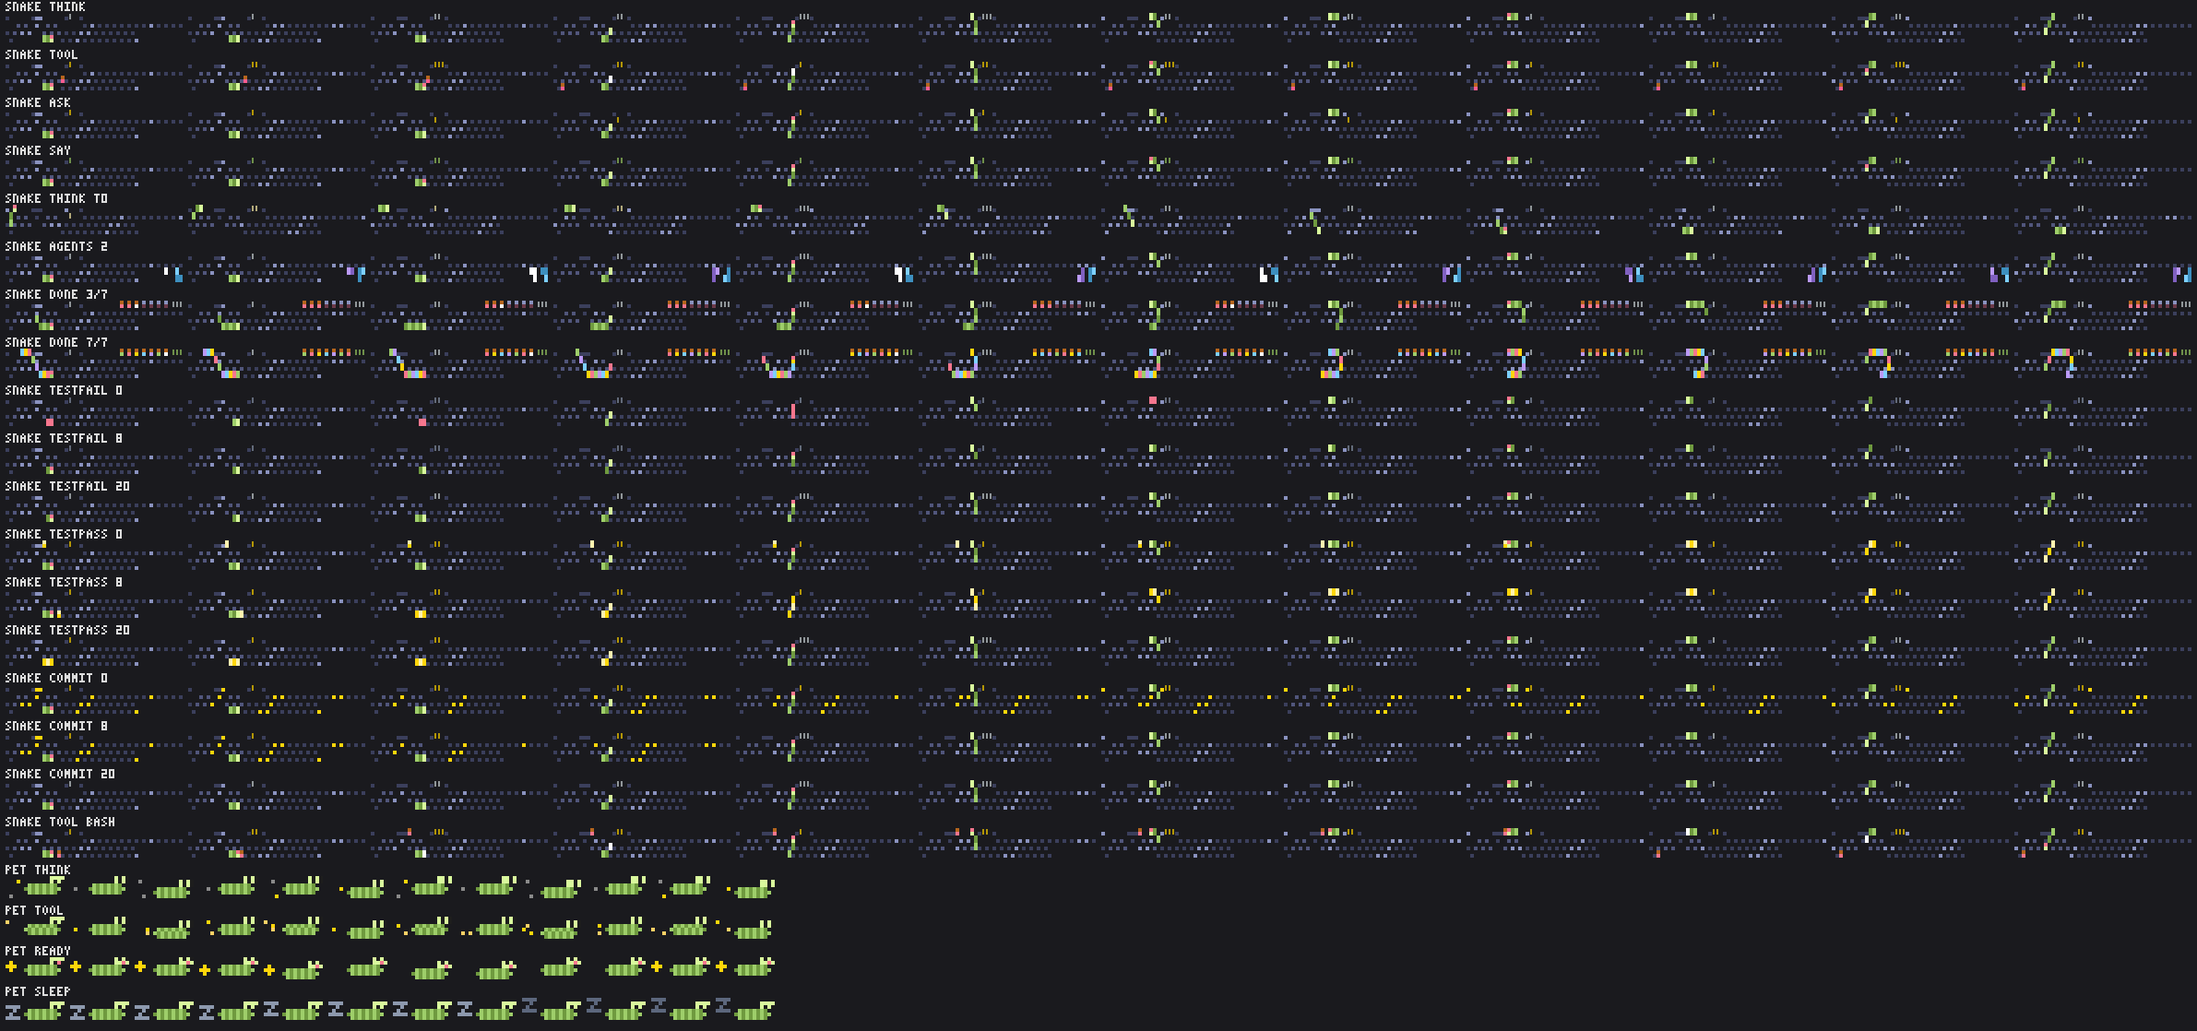
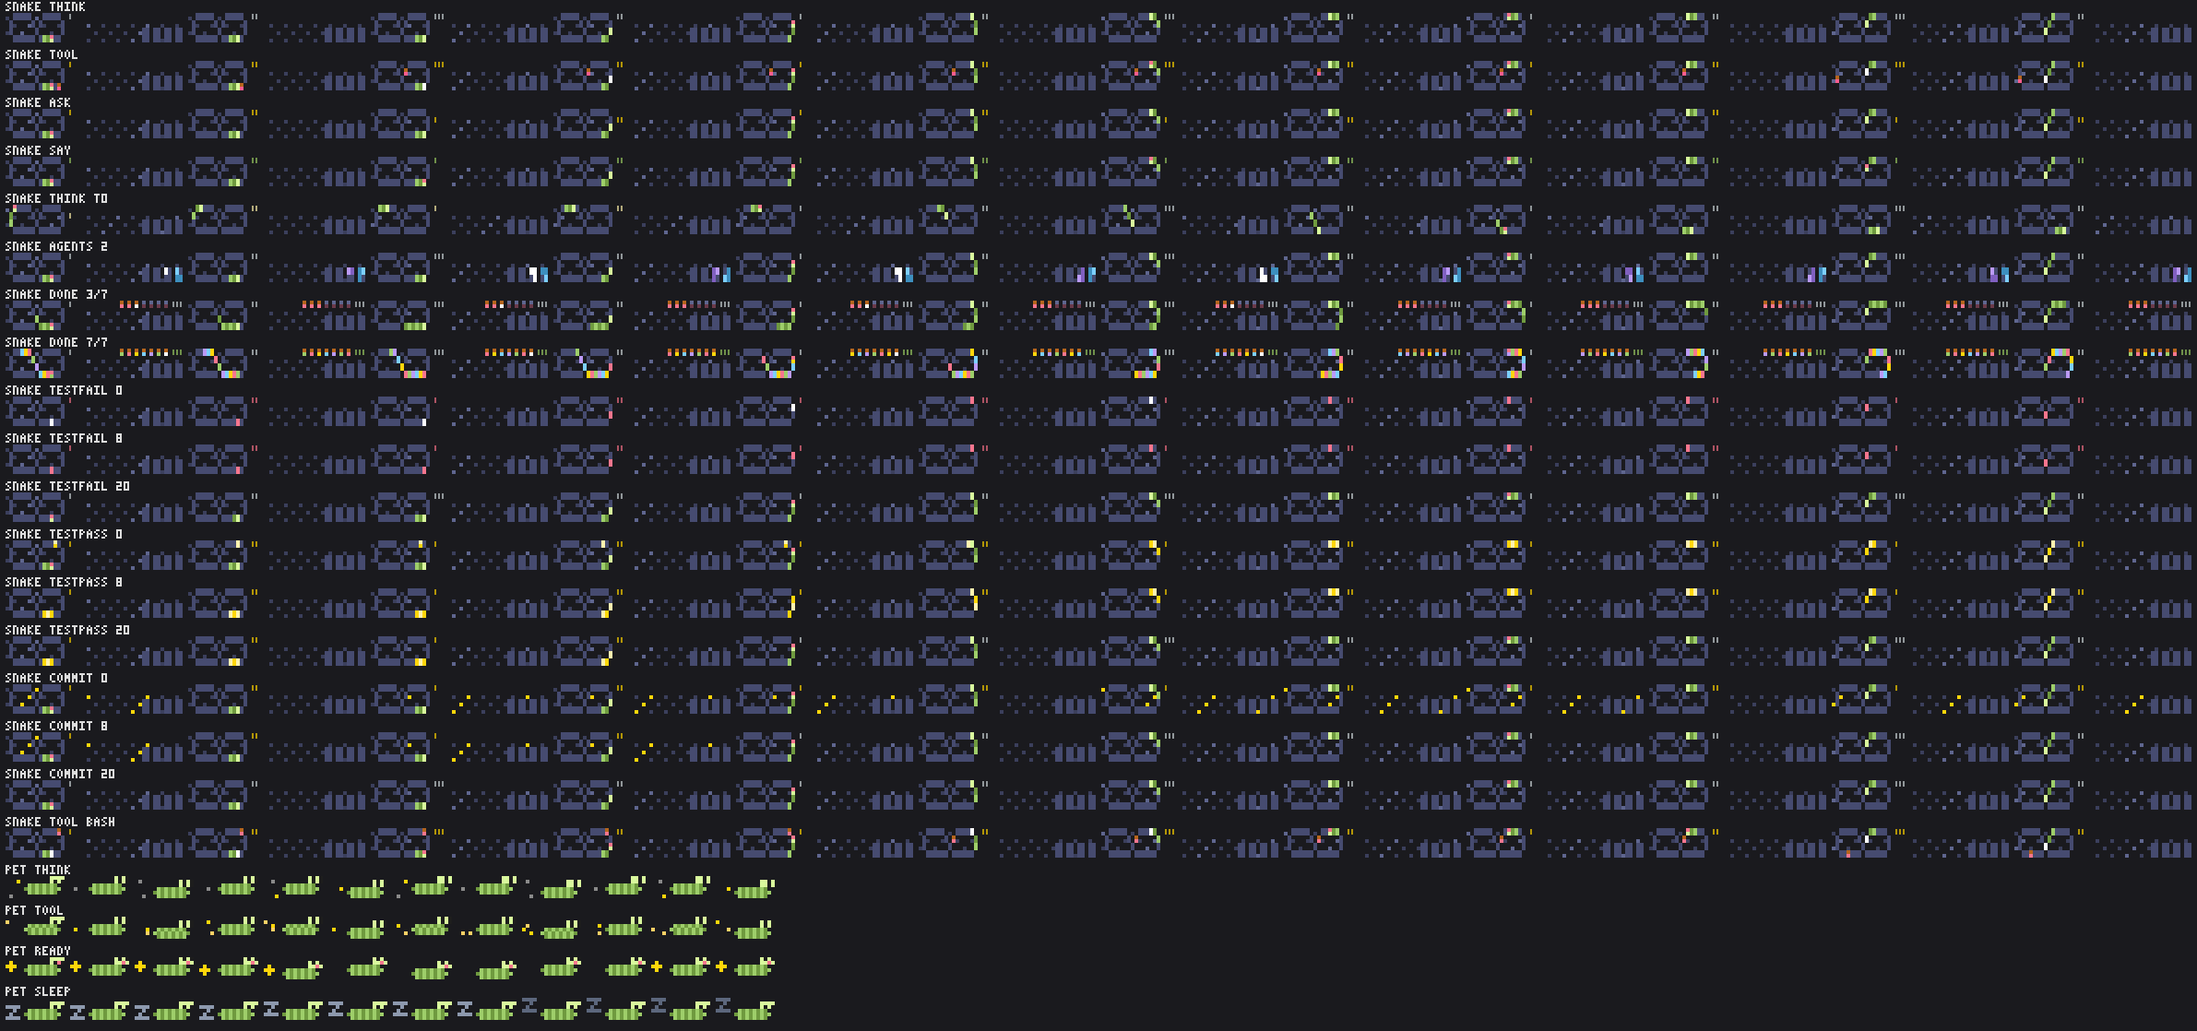
showtime: snake — the loop drawn as a dim track and a red fail (review fixes); the figure-eight is a continuous static track under the snake, so the subject reads at any length, the field thinned to every fourth cell and dimmed with its wave crest under the body's dark green, the agents' rings four 

Changed region(s): [[0.0, 0.0, 1.0, 0.8515]]

diff --git a/showtime/hooks/themes/snake.ts b/showtime/hooks/themes/snake.ts
@@ -1,30 +1,25 @@
 // Theme: snake. Its scene, its words and its pet.
 //
-// The scene: a grid snake (#9ece6a) winding a figure-eight in the left third of the band, a cell a
-// frame in every act, its body banded in two greens so the bands crawl, a pale head with a flick of red
-// across it for a tongue (every fourth frame idle, every other saying or hunting, every frame on bash).
-// The field is dim dots on a checkerboard, the two lobes it rounds a shade lighter, three dots over the
-// crossing, and a brighter wave rolling across it all. Its length is 3 + `done`, growing a cell as a
-// task lands, and `total` apples sit dim along the top right beside a `done/total` readout, `done` of
-// them red, the newest flashing white, all rolling colours at 100%. In a tool an apple in the tool's
-// colour appears ahead on the loop (eight cells or more; five on bash) and the snake runs it down, a
-// white bite as it reaches it, the next appearing further along. A sign right of the loop reads the
-// act (dots, a bobbing `?`, notes, the tool's mark). Each subagent (four at most) is a small snake of
-// its own hue circling a two-by-two ring at the bottom right, growing in and flashing white as it
-// joins. A failed test: the snake bites its tail, flashing red for eight frames and two cells shorter
-// for twenty, a `×`; a passed test: a golden apple ahead of it, the snake gold once it is eaten, a `★`,
-// twenty-four frames; a commit: the apples and the field's wave gold under a `✓`.
+// The scene: a grid snake (#9ece6a) running a figure-eight drawn as a dim track in the left third of
+// the band, a cell a frame in every act, its body banded in two greens so the bands crawl, a pale head
+// with a flick of red across it for a tongue (every fourth frame idle, every other saying or hunting,
+// every frame on bash). Around the track a sparse field of dim dots with a faint wave rolling across
+// it. Its length is 3 + `done`, growing a cell as a task lands; `total` apples sit dim along the top
+// right beside a `done/total` readout, `done` of them red, the newest flashing white, all rolling
+// colours at 100%. In a tool an apple in the tool's colour appears eight cells ahead on the track
+// (five on bash) and the snake runs it down, a white bite as it reaches it, the next appearing further
+// along. A sign right of the track reads the act (dots, a bobbing `?`, notes, the tool's mark). Four
+// dim ring slots at the bottom right: each subagent (four at most) is a small snake of its own hue
+// circling one, growing in and flashing white as it joins. A failed test: the snake bites its tail,
+// red for twenty frames (flashing white the first eight) and two cells shorter, under a red `×`; a
+// passed test: a golden apple ahead, the snake gold once it is eaten, a `★`, twenty-four frames; a
+// commit: the apples and the field's wave gold under a `✓`.
 //
-// Motion rules (tests/scenes.test.ts): the loop's cells carry no dots, so the head always enters an
-// empty cell and the tail always leaves one, and no frame can hold; the sign changes its ink every
-// other frame besides. New ink away from the body must start within a column of a run already there,
-// so the checkerboard is phased to the loop (the lobe length odd): no dot sits beside a straight in
-// its own row, where the tail leaving would expose it two columns from the body's end, and a dot sits
-// beside each corner the head turns into out of a rightward run (the lattice at the right side, the
-// three anchors at the crossing). Apples appear only at loop cells with a dot beside them in their own
-// row, or at the band's left edge, so their ink joins a run; the tongue stays on the head's cell. A
-// ring grows in from its top left (a dot in the row above anchors it), its margins kept clear, and
-// its zone is reserved only where a ring fits, so the right side's anchors survive a narrow band.
+// Motion rules (tests/scenes.test.ts): the track, the dots and the ring slots are constant ink, so the
+// snake, the apples, the agents and every reaction change colour only and no run start ever moves.
+// What keeps a frame from holding is the sign: it changes its ink every frame in every act and under
+// every news (a tail of dots that grows and shrinks beside a mark that stays), and it never hides,
+// moving down to the bottom rows where a narrow band puts the readout in its place.
 import { canvas, cells, frame, mod, plot, put } from '../cells'
 import type { Canvas, Grid } from '../cells'
 import { SCENE_ROWS } from '../draw'
@@ -33,14 +28,15 @@ import type { Signals, Theme, ToolKind } from '../themes'
 
 type Cell = readonly [x: number, y: number]
 
-/** The loop's left column, and the straight cells along a lobe's top by the band's width. */
+/** The track's left column; the straight cells along a lobe's top, by the band's width. */
 const LOOP_X = 1
 const MIN_LOBE = 3
-const MAX_LOBE = 7
+const MAX_LOBE = 8
 const BASE_LEN = 3
-const MIN_LEN = 2
+const MIN_LEN = 1
+const DOT_PITCH = 4
 const WAVE = 16
-/** The sign's column from the loop's right side. */
+/** The sign's column from the track's right side. */
 const SIGN_GAP = 2
 const SIGN_W = 3
 const APPLE_PITCH = 2
@@ -50,11 +46,9 @@ const GOLD_EVERY = 6
 const BITE_FRAMES = 2
 const RING_PITCH = 3
 const MAX_AGENTS = 4
-/** The ring's cells in order: a two-by-two square, clockwise from its top left. */
+/** A ring's cells in order: a two-by-two square, clockwise from its top left. */
 const RING: Cell[] = [[0, 2], [1, 2], [1, 3], [0, 3]]
 const RING_LEN = 3
-/** Columns a ring and its margins take, from its left cell. */
-const RING_ZONE = [-1, 0, 1, 2]
 const GREET_FRAMES = 8
 const FAIL_FLASH_FRAMES = 8
 const FAIL_FRAMES = 20
@@ -73,11 +67,10 @@ const WHITE = '#ffffff'
 const GOLD = '#ffd60a'
 const PALE = '#fff3b0'
 const STEM = '#b5651d'
+const TRACK = '#464b70'
 const DOT = '#3b3f5c'
-const DOT_IN = '#51567c'
-const DOT_LIT = '#8a92bf'
+const DOT_LIT = '#5f668f'
 const DIM_APPLE = '#6b3a4a'
-const GREY = '#8d99ae'
 const SIGN = '#cfd8dc'
 const PALETTE = [GREEN, RED, GOLD, '#7dcfff', '#bb9af7']
 const APPLE: Record<ToolKind, string> = {
@@ -91,21 +84,15 @@ const HUES: readonly (readonly [string, string])[] = [
   ['#7dcfff', '#3d8fbf'], ['#bb9af7', '#8060c0'], ['#ff9e64', '#c06a30'], ['#f7768e', '#b04060'],
 ]
 
-/** Straight cells along a lobe's top: the loop is 2n + 5 wide, 4n + 10 long, in the left third. Odd, so
- * the lattice falls beside the loop's corners and never beside its straights. */
-function lobeOf(w: number): number {
-  const n = Math.max(MIN_LOBE, Math.min(MAX_LOBE, Math.floor((Math.floor(w / 3) - 5) / 2)))
-  return n % 2 === 0 ? n - 1 : n
-}
-/** The crossing's column, and the right side's. */
-const crossOf = (n: number) => LOOP_X + n + 2
+/** Straight cells along a lobe's top: the track is 2n + 5 wide and 4n + 10 long, in the left third. */
+const lobeOf = (w: number) => Math.max(MIN_LOBE, Math.min(MAX_LOBE, Math.floor((Math.floor(w / 3) - 5) / 2)))
 const rightOf = (n: number) => LOOP_X + 2 * n + 4
 
 /** The figure-eight, from the top left lobe's first cell: along the top, down through the crossing to
  * the right lobe's bottom, up its side, back along its top, down through the crossing again to the
  * left lobe's bottom, and up its side. The two lobes meet only at the crossing. */
 function loopOf(n: number): Cell[] {
-  const c = crossOf(n)
+  const c = LOOP_X + n + 2
   const r = rightOf(n)
   const out: Cell[] = []
   for (let i = 1; i <= n; i++) out.push([LOOP_X + i, 0])
@@ -131,65 +118,33 @@ function apple(cv: Canvas, [x, y]: Cell, color: string, stem = STEM): void {
   plot(cv, x, 2 * y + 1, color)
 }
 
-/** Loop indices where an apple may appear: cells with a dot beside them in their own row (the lobes'
- * far ends, the cells by the crossing's anchors) or at the band's left edge, so its ink joins a run. */
-function spotsOf(n: number): number[] {
-  return [n - 1, n, 2 * n + 2, 2 * n + 3, 3 * n + 4, 3 * n + 5, 4 * n + 7, 4 * n + 8, 4 * n + 9]
+/** The apple ahead: `every` cells past where the head was when the hunt began and past each apple
+ * eaten, with the frames since the last bite. */
+function appleAhead(since: number, every: number): { ahead: number; bitten: number } {
+  const phase = mod(since, every)
+  return { ahead: every - phase, bitten: since >= every ? phase : BITE_FRAMES }
 }
 
-/** The first spot at index `i` or after. */
-function nextSpot(i: number, spots: number[], L: number): number {
-  const m = mod(i, L)
-  for (const sp of spots) if (sp >= m) return i - m + sp
-  return i - m + L + spots[0]!
-}
-
-/** The apple ahead: the first spot `every` or more past where the head was when the hunt began (and
- * past each apple eaten), with the frames since the last bite. */
-function appleAhead(
-  t: number, t0: number, every: number, spots: number[], L: number,
-): { ahead: number; bitten: number } {
-  let a = nextSpot(t0 + every, spots, L)
-  let prev = -BITE_FRAMES
-  while (a <= t) { prev = a; a = nextSpot(a + every, spots, L) }
-  return { ahead: a - t, bitten: t - prev }
-}
-
-/** The field: a dot in the lower pixel of every other cell, a checkerboard, three more over the crossing
- * (beside the loop's corners, the anchors), the lobes' insides a shade lighter so the track shows, a
- * brighter wave rolling right (gold on a commit); none on the loop, beside the rings, under the sign
- * or along the apple row. */
-function field(cv: Canvas, t: number, n: number, reserved: Set<number>, isCommit: boolean): void {
-  const c = crossOf(n)
-  const r = rightOf(n)
+/** The field: a dot in the lower pixel of every fourth cell, each row offset two from the last, a
+ * faint wave rolling right (gold on a commit); none from the track's side through a column past the
+ * sign (a dot fused to the sign's tail would be exposed as it shrinks), none along the apple row. */
+function field(cv: Canvas, t: number, trackR: number, signX: number, hudL: number, isCommit: boolean): void {
   for (let y = 0; y < SCENE_ROWS; y++) {
     for (let x = 0; x < cv.w; x++) {
-      const anchor = (y === 0 && Math.abs(x - c) === 1) || (y === 1 && x === c)
-      if ((mod(x + y, 2) !== 0 && !anchor) || reserved.has(y * cv.w + x)) continue
-      const inside = y >= 1 && y <= 2 && ((x > LOOP_X && x <= LOOP_X + n) || (x >= c + 2 && x < r))
+      if (mod(x - 2 * y, DOT_PITCH) !== 0) continue
+      if (x > trackR && x <= signX + SIGN_W) continue
+      if (y === 0 && x >= hudL) continue
       const crest = mod(x + 2 * y - t, WAVE) < 3
-      plot(cv, x, 2 * y + 1, crest ? (isCommit ? GOLD : DOT_LIT) : inside ? DOT_IN : DOT)
+      plot(cv, x, 2 * y + 1, crest ? (isCommit ? GOLD : DOT_LIT) : DOT)
     }
   }
 }
 
-/** The cells the field leaves clear: the loop, the sign's box, the apple row and the zones of the rings
- * that fit (whether an agent stands there or not). */
-function reservedOf(w: number, loop: Cell[], signX: number, hudL: number): Set<number> {
-  const out = new Set(loop.map(([x, y]) => y * w + x))
-  for (let y = 0; y < 2; y++) for (let x = signX; x < signX + SIGN_W; x++) out.add(y * w + x)
-  for (let x = Math.max(0, hudL); x < w; x++) out.add(x)
-  for (let i = 0; i < MAX_AGENTS && w - 2 - RING_PITCH * i >= hudL; i++) {
-    for (const dx of RING_ZONE) for (const y of [2, 3]) out.add(y * w + w - 2 - RING_PITCH * i + dx)
-  }
-  return out
-}
-
 /** The snake's length now: three and a task, two shorter while a failed test smarts, regrowing a cell a
- * frame after, growing a cell a frame as a task lands; never longer than the loop less four. */
+ * frame after, growing a cell a frame as a task lands; never longer than the track less four. */
 function lengthOf(s: Signals, loopLen: number): number {
   let len = BASE_LEN + Math.min(s.done, Math.max(0, loopLen - 4 - BASE_LEN))
-  if (s.doneAge < 1) len -= 1
+  if (s.done > 0 && s.doneAge < 1) len -= 1
   if (s.news === 'testFail') {
     if (s.newsAge < FAIL_FRAMES) len -= FAIL_SHORT
     else if (s.newsAge < FAIL_FRAMES + FAIL_SHORT) len -= FAIL_FRAMES + FAIL_SHORT - s.newsAge
@@ -199,7 +154,9 @@ function lengthOf(s: Signals, loopLen: number): number {
 
 /** Segment `k` of the snake (0 the head) at `t`: its colour by the news, the bite and its band. */
 function segmentColor(k: number, t: number, s: Signals, bite: boolean, golden: boolean, allDone: boolean): string {
-  if (s.news === 'testFail' && s.newsAge < FAIL_FLASH_FRAMES) return mod(t, 2) === 0 ? RED : k === 0 ? HEAD : GREEN
+  if (s.news === 'testFail' && s.newsAge < FAIL_FRAMES) {
+    return s.newsAge < FAIL_FLASH_FRAMES && mod(t, 2) === 0 ? WHITE : RED
+  }
   if (golden) return mod(k + t, 2) === 0 ? GOLD : PALE
   if (allDone && s.doneAge < DONE_ROLL_FRAMES) return frame(PALETTE, k + (s.doneAge >> 1))
   if (k === 0) return bite ? WHITE : HEAD
@@ -222,40 +179,42 @@ function hud(cv: Canvas, s: Signals, hudL: number, hudR: number, isCommit: boole
   }
 }
 
-/** The agents: a small snake of its own hue circling a ring per agent (four at most), from the right
- * edge leftward in the bottom rows, each out of step; the newest grows in a cell a frame from the
- * ring's top left and flashes white as it joins (and again, harmlessly, when one leaves). */
+/** The agents: dim ring slots from the right edge leftward in the bottom rows, as many as fit, and on
+ * one per agent (four at most) a small snake of its own hue circling it out of step; the newest grows
+ * in a cell a frame from the ring's top left and flashes white as it joins (and again, harmlessly,
+ * when one leaves). */
 function agents(cv: Canvas, t: number, s: Signals, minX: number): void {
   const n = Math.min(s.agents, MAX_AGENTS)
-  for (let i = 0; i < n; i++) {
+  for (let i = 0; i < MAX_AGENTS; i++) {
     const x0 = cv.w - 2 - RING_PITCH * i
     if (x0 < minX) break
+    for (const [dx, dy] of RING) block(cv, [x0 + dx, dy], TRACK)
+    if (i >= n) continue
     const newest = i === n - 1 && s.agentsAge < GREET_FRAMES
     const growing = newest && s.agentsAge < RING_LEN
     const [head, body] = HUES[i]!
     for (let k = 0; k < (growing ? s.agentsAge + 1 : RING_LEN); k++) {
       const [dx, dy] = growing ? RING[k]! : frame(RING, t + 2 * i - k)
-      const color = newest && mod(s.agentsAge, 2) === 0 ? WHITE : k === 0 ? head : body
-      block(cv, [x0 + dx, dy], color)
+      block(cv, [x0 + dx, dy], newest && mod(s.agentsAge, 2) === 0 ? WHITE : k === 0 ? head : body)
     }
   }
 }
 
-/** The sign right of the loop: the news first, else the act, dots while the act turns. Each changes its
- * ink every other frame at least (a length, or the `?` bobbing a row), so no frame can hold. */
+/** The sign right of the track: the news first, else the act, dots while the act turns. Each changes
+ * its ink every frame (a tail of dots growing and shrinking beside a mark), so no frame can hold. */
 function sign(
   s: Signals, t: number, age: number, isFail: boolean, isPass: boolean, isCommit: boolean,
-): { text: string; c: string; row: number } {
-  const row = age === 0 ? 1 : 0
-  if (isFail) return { text: frame(['×', '×·'], t >> 1), c: GREY, row }
-  if (isPass) return { text: frame(['★', '★·', '☆', '☆·'], t >> 1), c: GOLD, row }
-  if (isCommit) return { text: frame(['✓', '✓·'], t >> 1), c: GOLD, row }
-  if (age < TURN_FRAMES) return { text: frame(['·', '··'], t), c: PALE, row }
-  if (s.act === 'tool') return { text: TOOL_SIGN[s.tool ?? 'other'] + frame(['', '·', '··', '·'], t), c: GOLD, row }
-  if (s.act === 'ask') return { text: '?', c: GOLD, row: mod(t, 4) < 2 ? 0 : 1 }
-  if (s.act === 'say') return { text: frame(['♪', '♪♫', '♫', '♫♪'], t >> 1), c: GREEN, row }
-  if (s.act === 'think') return { text: frame(['·', '··', '···', '··'], t >> 1), c: SIGN, row }
-  return { text: frame(['.', '..', '...', '..'], t >> 1), c: SIGN, row }
+): { text: string; c: string; bob: number } {
+  const bob = age === 0 ? 1 : 0
+  if (isFail) return { text: frame(['×', '×·'], t), c: RED, bob }
+  if (isPass) return { text: frame(['★', '★·', '☆', '☆·'], t), c: GOLD, bob }
+  if (isCommit) return { text: frame(['✓', '✓·'], t), c: GOLD, bob }
+  if (age < TURN_FRAMES) return { text: frame(['·', '··'], t), c: PALE, bob }
+  if (s.act === 'tool') return { text: TOOL_SIGN[s.tool ?? 'other'] + frame(['', '·', '··', '·'], t), c: GOLD, bob }
+  if (s.act === 'ask') return { text: frame(['?', '?·'], t), c: GOLD, bob: mod(t, 4) < 2 ? 0 : 1 }
+  if (s.act === 'say') return { text: frame(['♪', '♪♫', '♫', '♫♪'], t), c: GREEN, bob }
+  if (s.act === 'think') return { text: frame(['·', '··', '···', '··'], t), c: SIGN, bob }
+  return { text: frame(['.', '..', '...', '..'], t), c: SIGN, bob }
 }
 
 export function snakeScene(t: number, w: number, s: Signals): Grid {
@@ -263,11 +222,12 @@ export function snakeScene(t: number, w: number, s: Signals): Grid {
   const n = lobeOf(w)
   const loop = loopOf(n)
   const L = loop.length
-  const spots = spotsOf(n)
   const at = (i: number) => loop[mod(i, L)]!
   const signX = rightOf(n) + SIGN_GAP
   const readout = s.total > 0 ? `${s.done}/${s.total}` : ''
   const readoutX = w - readout.length
+  // The sign keeps the top rows unless the readout needs them (a narrow band), then the bottom rows.
+  const signRow = readout && signX + SIGN_W > readoutX - 1 ? 2 : 0
   const hudL = signX + SIGN_W + 1
   const hudR = readoutX - 2
   const bash = s.act === 'tool' && s.tool === 'bash'
@@ -276,13 +236,14 @@ export function snakeScene(t: number, w: number, s: Signals): Grid {
   const isCommit = s.news === 'commit' && s.newsAge < COMMIT_FRAMES
   const allDone = s.total > 0 && s.done >= s.total
   const age = Math.min(s.actAge, s.toolAge)
-  const prey = s.act === 'tool' ? appleAhead(t, t - age, bash ? APPLE_EVERY_BASH : APPLE_EVERY, spots, L) : undefined
-  const golden = isPass ? appleAhead(t, t - s.newsAge, GOLD_EVERY, spots, L) : undefined
-  const goldenEaten = golden !== undefined && golden.bitten <= s.newsAge
-  const bite = (prey?.bitten ?? BITE_FRAMES) < BITE_FRAMES || (goldenEaten && golden.bitten < BITE_FRAMES)
+  const prey = s.act === 'tool' ? appleAhead(age, bash ? APPLE_EVERY_BASH : APPLE_EVERY) : undefined
+  const golden = isPass ? appleAhead(s.newsAge, GOLD_EVERY) : undefined
+  const goldenEaten = isPass && s.newsAge >= GOLD_EVERY
+  const bite = (prey?.bitten ?? BITE_FRAMES) < BITE_FRAMES || (goldenEaten && golden!.bitten < BITE_FRAMES)
 
-  // Layer 1: the field, its wave rolling; layer 2: the apple ahead on the loop.
-  field(cv, t, n, reservedOf(w, loop, signX, hudL), isCommit)
+  // Layer 1: the field, its wave rolling, and the track; layer 2: the apple ahead on the track.
+  field(cv, t, rightOf(n), signX, hudL, isCommit)
+  for (const cell of loop) block(cv, cell, TRACK)
   if (golden && !goldenEaten) apple(cv, at(t + golden.ahead), mod(t, 2) === 0 ? GOLD : PALE, PALE)
   else if (prey) apple(cv, at(t + prey.ahead), APPLE[s.tool ?? 'other'])
   // Layer 3: the snake, tail first so the head lies over the crossing, its tongue a flick of red
@@ -290,18 +251,16 @@ export function snakeScene(t: number, w: number, s: Signals): Grid {
   const len = lengthOf(s, L)
   for (let k = len - 1; k >= 0; k--) block(cv, at(t - k), segmentColor(k, t, s, bite, goldenEaten, allDone))
   const flick = bash ? 1 : s.act === 'tool' || s.act === 'say' ? 2 : 4
-  if (mod(t, flick) === 0 && !bite && !goldenEaten) plot(cv, at(t)[0], 2 * at(t)[1], RED)
+  if (mod(t, flick) === 0 && !bite && !goldenEaten && !isFail) plot(cv, at(t)[0], 2 * at(t)[1], RED)
   // Layer 4: the task apples and the agents' rings.
   hud(cv, s, hudL, hudR, isCommit, allDone)
   agents(cv, t, s, hudL)
 
   const g = cells(cv)
   if (readout) put(g, readoutX, 0, readout, { c: isCommit || isPass ? GOLD : allDone ? GREEN : SIGN, b: true })
-  // The sign, a row down the frame the act turns; it yields to the readout when the band is narrow.
-  if (!readout || signX + SIGN_W <= readoutX - 1) {
-    const { text, c, row } = sign(s, t, age, isFail, isPass, isCommit)
-    put(g, signX, row, text, { c, b: s.act !== 'think' || isFail || isPass || isCommit })
-  }
+  // The sign, a row down the frame the act turns.
+  const { text, c, bob } = sign(s, t, age, isFail, isPass, isCommit)
+  put(g, signX, signRow + bob, text, { c, b: s.act !== 'think' || isFail || isPass || isCommit })
   return g
 }
 
